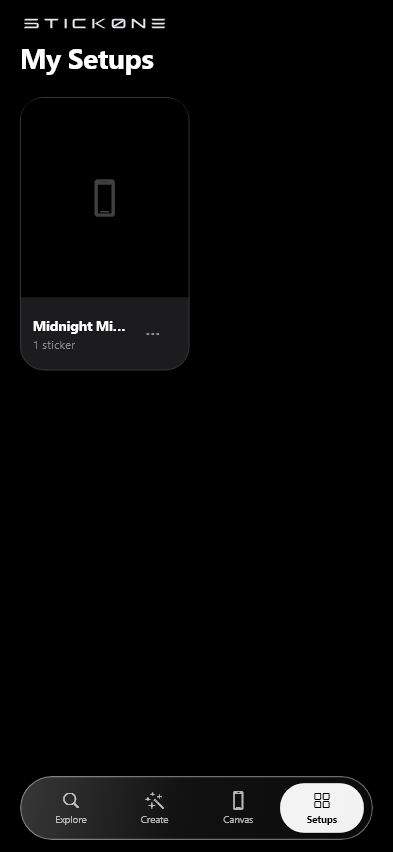
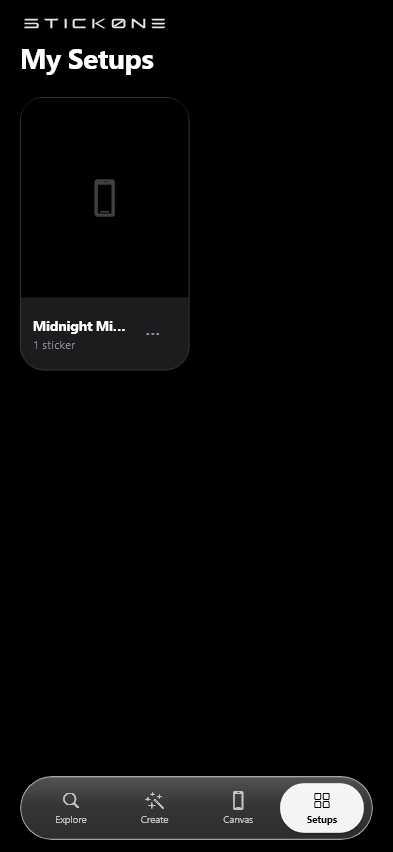
feat: applied iOS App Library capsule glassmorphism styling to search bar and canvas controls

Changed region(s): [[0.0916, 0.885, 0.9466, 1.0]]

diff --git a/lib/screens/sticker_placement_screen.dart b/lib/screens/sticker_placement_screen.dart
@@ -957,56 +957,63 @@ class _StickerPlacementScreenState extends State<StickerPlacementScreen> {
     return Padding(
       padding: const EdgeInsets.symmetric(horizontal: 16),
       child: ClipRRect(
-        borderRadius: BorderRadius.circular(28),
+        borderRadius: BorderRadius.circular(32),
         child: BackdropFilter(
           filter: ui.ImageFilter.blur(
-            sigmaX: isGesturing ? 4 : 16,
-            sigmaY: isGesturing ? 4 : 16,
+            sigmaX: isGesturing ? 4 : 20,
+            sigmaY: isGesturing ? 4 : 20,
           ),
           child: Container(
             decoration: BoxDecoration(
-              borderRadius: BorderRadius.circular(28),
+              borderRadius: BorderRadius.circular(32),
               gradient: const LinearGradient(
-                begin: Alignment.topLeft,
-                end: Alignment.bottomRight,
+                begin: Alignment.topCenter,
+                end: Alignment.bottomCenter,
                 colors: [
-                  Color(0x3DFFFFFF), // Crystalline specular highlight
-                  Color(0x14FFFFFF), // Fluid transparent optical glass body
-                  Color(0x08FFFFFF), // Clean transparent bottom
+                  Color(0x40FFFFFF), // Luminous iOS specular glass sheen
+                  Color(0x1FFFFFFF), // Frosted optical glass body
+                  Color(0x14FFFFFF), // Transparent depth
                 ],
                 stops: [0.0, 0.45, 1.0],
               ),
               border: Border.all(
-                color: const Color(0x66FFFFFF), // 40% white crystalline specular rim
+                color: const Color(0x8CFFFFFF), // 55% white luminous specular rim
                 width: 1.2,
               ),
               boxShadow: const [
                 BoxShadow(
-                  color: Color(0x33000000),
-                  blurRadius: 24,
-                  spreadRadius: -4,
-                  offset: Offset(0, 8),
+                  color: Color(0x40000000),
+                  blurRadius: 28,
+                  spreadRadius: -2,
+                  offset: Offset(0, 10),
+                ),
+                BoxShadow(
+                  color: Color(0x1AFFFFFF),
+                  blurRadius: 2,
+                  spreadRadius: 0,
+                  offset: Offset(0, 1),
                 ),
               ],
             ),
-            padding: const EdgeInsets.fromLTRB(16, 8, 16, 12),
+            padding: const EdgeInsets.fromLTRB(16, 10, 16, 12),
             child: Column(
               mainAxisSize: MainAxisSize.min,
               children: [
                 // Top Glass Specular Reflection Highlight Line
                 Container(
-                  height: 1,
+                  height: 1.2,
                   margin: const EdgeInsets.only(bottom: 8),
-                  decoration: const BoxDecoration(
-                    gradient: LinearGradient(
+                  decoration: BoxDecoration(
+                    borderRadius: BorderRadius.circular(1),
+                    gradient: const LinearGradient(
                       colors: [
                         Colors.transparent,
-                        Color(0x4DFFFFFF),
-                        Color(0x99FFFFFF),
-                        Color(0x4DFFFFFF),
+                        Color(0x66FFFFFF),
+                        Color(0xB3FFFFFF),
+                        Color(0x66FFFFFF),
                         Colors.transparent,
                       ],
-                      stops: [0.0, 0.25, 0.5, 0.75, 1.0],
+                      stops: [0.0, 0.2, 0.5, 0.8, 1.0],
                     ),
                   ),
                 ),
@@ -1068,11 +1075,18 @@ class _StickerPlacementScreenState extends State<StickerPlacementScreen> {
                       GestureDetector(
                         onTap: () => _deleteSinglePlacement(activePlacement.id),
                         child: Container(
-                          padding: const EdgeInsets.symmetric(horizontal: 8, vertical: 7),
+                          padding: const EdgeInsets.symmetric(horizontal: 10, vertical: 7),
                           decoration: BoxDecoration(
                             color: const Color(0x33FF453A),
-                            borderRadius: BorderRadius.circular(14),
-                            border: Border.all(color: const Color(0x66FF453A), width: 0.9),
+                            borderRadius: BorderRadius.circular(20),
+                            border: Border.all(color: const Color(0x80FF453A), width: 1.0),
+                            boxShadow: const [
+                              BoxShadow(
+                                color: Color(0x26FF453A),
+                                blurRadius: 8,
+                                offset: Offset(0, 2),
+                              ),
+                            ],
                           ),
                           child: const Row(
                             mainAxisSize: MainAxisSize.min,
@@ -1092,17 +1106,24 @@ class _StickerPlacementScreenState extends State<StickerPlacementScreen> {
                         ),
                       ),
 
-                      const SizedBox(width: 5),
+                      const SizedBox(width: 6),
 
                       // Quick Add button to place N stickers
                       GestureDetector(
                         onTap: () => _showAddStickerSheet(context),
                         child: Container(
-                          padding: const EdgeInsets.symmetric(horizontal: 8, vertical: 7),
+                          padding: const EdgeInsets.symmetric(horizontal: 10, vertical: 7),
                           decoration: BoxDecoration(
                             color: const Color(0x29FFFFFF), // Liquid frosted pill
-                            borderRadius: BorderRadius.circular(14),
-                            border: Border.all(color: const Color(0x40FFFFFF), width: 0.9),
+                            borderRadius: BorderRadius.circular(20),
+                            border: Border.all(color: const Color(0x8CFFFFFF), width: 1.0),
+                            boxShadow: const [
+                              BoxShadow(
+                                color: Color(0x1A000000),
+                                blurRadius: 6,
+                                offset: Offset(0, 2),
+                              ),
+                            ],
                           ),
                           child: const Row(
                             mainAxisSize: MainAxisSize.min,
@@ -1122,18 +1143,18 @@ class _StickerPlacementScreenState extends State<StickerPlacementScreen> {
                         ),
                       ),
 
-                      const SizedBox(width: 5),
+                      const SizedBox(width: 6),
 
                       // If stuck on screen: Show "Remove Screen" + "Update Screen" (Feature 4 Edit/Delete after sticked)
                       if (isOverlayActive) ...[
                         GestureDetector(
                           onTap: _removeFromScreenDirectly,
                           child: Container(
-                            padding: const EdgeInsets.symmetric(horizontal: 8, vertical: 7),
+                            padding: const EdgeInsets.symmetric(horizontal: 10, vertical: 7),
                             decoration: BoxDecoration(
                               color: const Color(0x29FFFFFF), // Liquid frosted pill
-                              borderRadius: BorderRadius.circular(14),
-                              border: Border.all(color: const Color(0x40FFFFFF), width: 0.9),
+                              borderRadius: BorderRadius.circular(20),
+                              border: Border.all(color: const Color(0x8CFFFFFF), width: 1.0),
                             ),
                             child: const Row(
                               mainAxisSize: MainAxisSize.min,
@@ -1152,7 +1173,7 @@ class _StickerPlacementScreenState extends State<StickerPlacementScreen> {
                             ),
                           ),
                         ),
-                        const SizedBox(width: 5),
+                        const SizedBox(width: 6),
                         ElevatedButton.icon(
                           onPressed: _isExporting ? null : _updateScreenDirectly,
                           icon: const Icon(CupertinoIcons.arrow_2_circlepath, color: Colors.black, size: 13),
@@ -1165,11 +1186,15 @@ class _StickerPlacementScreenState extends State<StickerPlacementScreen> {
                             ),
                           ),
                           style: ElevatedButton.styleFrom(
-                            backgroundColor: const Color(0xF2FFFFFF),
+                            backgroundColor: const Color(0xF5FFFFFF),
                             foregroundColor: Colors.black,
                             elevation: 0,
-                            padding: const EdgeInsets.symmetric(horizontal: 10, vertical: 7),
-                            shape: RoundedRectangleBorder(borderRadius: BorderRadius.circular(14)),
+                            padding: const EdgeInsets.symmetric(horizontal: 12, vertical: 7),
+                            shape: RoundedRectangleBorder(
+                              borderRadius: BorderRadius.circular(20),
+                              side: const BorderSide(color: Colors.white, width: 1.0),
+                            ),
+                            shadowColor: const Color(0x33FFFFFF),
                           ),
                         ),
                       ] else ...[
@@ -1186,11 +1211,15 @@ class _StickerPlacementScreenState extends State<StickerPlacementScreen> {
                             ),
                           ),
                           style: ElevatedButton.styleFrom(
-                            backgroundColor: const Color(0xF2FFFFFF),
+                            backgroundColor: const Color(0xF5FFFFFF),
                             foregroundColor: Colors.black,
                             elevation: 0,
-                            padding: const EdgeInsets.symmetric(horizontal: 10, vertical: 7),
-                            shape: RoundedRectangleBorder(borderRadius: BorderRadius.circular(14)),
+                            padding: const EdgeInsets.symmetric(horizontal: 12, vertical: 7),
+                            shape: RoundedRectangleBorder(
+                              borderRadius: BorderRadius.circular(20),
+                              side: const BorderSide(color: Colors.white, width: 1.0),
+                            ),
+                            shadowColor: const Color(0x33FFFFFF),
                           ),
                         ),
                       ],

diff --git a/lib/screens/sticker_search_screen.dart b/lib/screens/sticker_search_screen.dart
@@ -1,3 +1,4 @@
+import 'dart:ui';
 import 'package:flutter/cupertino.dart';
 import 'package:flutter/material.dart';
 import 'package:flutter/services.dart';
@@ -107,47 +108,85 @@ class _StickerSearchScreenState extends State<StickerSearchScreen> {
   Widget _buildIosSearchBar(StickerProvider provider) {
     return Padding(
       padding: const EdgeInsets.symmetric(horizontal: 20, vertical: 8),
-      child: Container(
-        height: 42,
-        decoration: BoxDecoration(
-          color: const Color(0xFF1C1C1E),
-          borderRadius: BorderRadius.circular(12),
-          border: Border.all(color: const Color(0x26FFFFFF), width: 0.8),
-        ),
-        child: Row(
-          children: [
-            const Padding(
-              padding: EdgeInsets.symmetric(horizontal: 10),
-              child: Icon(CupertinoIcons.search, color: Color(0xFF8E8E93), size: 18),
-            ),
-            Expanded(
-              child: TextField(
-                controller: _searchController,
-                onChanged: provider.setSearchQuery,
-                style: const TextStyle(color: Colors.white, fontSize: 15),
-                cursorColor: Colors.white,
-                decoration: const InputDecoration(
-                  hintText: 'Search stickers, tags, emojis...',
-                  hintStyle: TextStyle(color: Color(0xFF8E8E93), fontSize: 14),
-                  border: InputBorder.none,
-                  isDense: true,
-                  contentPadding: EdgeInsets.symmetric(vertical: 10),
-                ),
+      child: ClipRRect(
+        borderRadius: BorderRadius.circular(100),
+        child: BackdropFilter(
+          filter: ImageFilter.blur(sigmaX: 20, sigmaY: 20),
+          child: Container(
+            height: 46,
+            decoration: BoxDecoration(
+              borderRadius: BorderRadius.circular(100),
+              gradient: const LinearGradient(
+                begin: Alignment.topCenter,
+                end: Alignment.bottomCenter,
+                colors: [
+                  Color(0x40FFFFFF), // Luminous iOS glass sheen
+                  Color(0x1FFFFFFF), // Frosted optical body
+                  Color(0x14FFFFFF), // Transparent depth
+                ],
+                stops: [0.0, 0.5, 1.0],
               ),
-            ),
-            if (_searchController.text.isNotEmpty)
-              GestureDetector(
-                onTap: () {
-                  _searchController.clear();
-                  provider.setSearchQuery('');
-                },
-                child: const Padding(
-                  padding: EdgeInsets.symmetric(horizontal: 10),
-                  child: Icon(CupertinoIcons.clear_circled_solid,
-                      color: Color(0xFF8E8E93), size: 16),
-                ),
+              border: Border.all(
+                color: const Color(0x8CFFFFFF), // Luminous glass specular rim
+                width: 1.2,
               ),
-          ],
+              boxShadow: const [
+                BoxShadow(
+                  color: Color(0x33000000),
+                  blurRadius: 18,
+                  offset: Offset(0, 6),
+                ),
+                BoxShadow(
+                  color: Color(0x1AFFFFFF),
+                  blurRadius: 2,
+                  offset: Offset(0, 1),
+                ),
+              ],
+            ),
+            child: Row(
+              children: [
+                const Padding(
+                  padding: EdgeInsets.only(left: 14, right: 10),
+                  child: Icon(CupertinoIcons.search, color: Colors.white, size: 20),
+                ),
+                Expanded(
+                  child: TextField(
+                    controller: _searchController,
+                    onChanged: provider.setSearchQuery,
+                    style: const TextStyle(
+                      color: Colors.white,
+                      fontSize: 16,
+                      fontWeight: FontWeight.w500,
+                    ),
+                    cursorColor: Colors.white,
+                    decoration: const InputDecoration(
+                      hintText: 'Search stickers, tags, emojis...',
+                      hintStyle: TextStyle(
+                        color: Color(0xCCFFFFFF),
+                        fontSize: 15,
+                        fontWeight: FontWeight.w400,
+                      ),
+                      border: InputBorder.none,
+                      isDense: true,
+                      contentPadding: EdgeInsets.symmetric(vertical: 10),
+                    ),
+                  ),
+                ),
+                if (_searchController.text.isNotEmpty)
+                  GestureDetector(
+                    onTap: () {
+                      _searchController.clear();
+                      provider.setSearchQuery('');
+                    },
+                    child: const Padding(
+                      padding: EdgeInsets.symmetric(horizontal: 12),
+                      child: Icon(CupertinoIcons.clear_circled_solid,
+                          color: Color(0x99FFFFFF), size: 18),
+                    ),
+                  ),
+              ],
+            ),
+          ),
         ),
       ),
     );

diff --git a/lib/screens/main_navigation_screen.dart b/lib/screens/main_navigation_screen.dart
@@ -83,25 +83,31 @@ class _MainNavigationScreenState extends State<MainNavigationScreen> {
                 decoration: BoxDecoration(
                   borderRadius: BorderRadius.circular(32),
                   gradient: const LinearGradient(
-                    begin: Alignment.topLeft,
-                    end: Alignment.bottomRight,
+                    begin: Alignment.topCenter,
+                    end: Alignment.bottomCenter,
                     colors: [
-                      Color(0x38FFFFFF), // Liquid glass top refraction highlight
-                      Color(0x12FFFFFF), // Crystalline translucent glass body
-                      Color(0x0AFFFFFF), // Transparent depth
+                      Color(0x40FFFFFF), // Luminous iOS specular glass sheen
+                      Color(0x1FFFFFFF), // Frosted optical glass body
+                      Color(0x14FFFFFF), // Transparent depth
                     ],
                     stops: [0.0, 0.45, 1.0],
                   ),
                   border: Border.all(
-                    color: const Color(0x66FFFFFF), // 40% white crystalline specular rim
+                    color: const Color(0x8CFFFFFF), // 55% white luminous specular rim
                     width: 1.2,
                   ),
                   boxShadow: const [
                     BoxShadow(
-                      color: Color(0x33000000),
-                      blurRadius: 24,
-                      spreadRadius: -4,
-                      offset: Offset(0, 8),
+                      color: Color(0x40000000),
+                      blurRadius: 28,
+                      spreadRadius: -2,
+                      offset: Offset(0, 10),
+                    ),
+                    BoxShadow(
+                      color: Color(0x1AFFFFFF),
+                      blurRadius: 2,
+                      spreadRadius: 0,
+                      offset: Offset(0, 1),
                     ),
                   ],
                 ),
